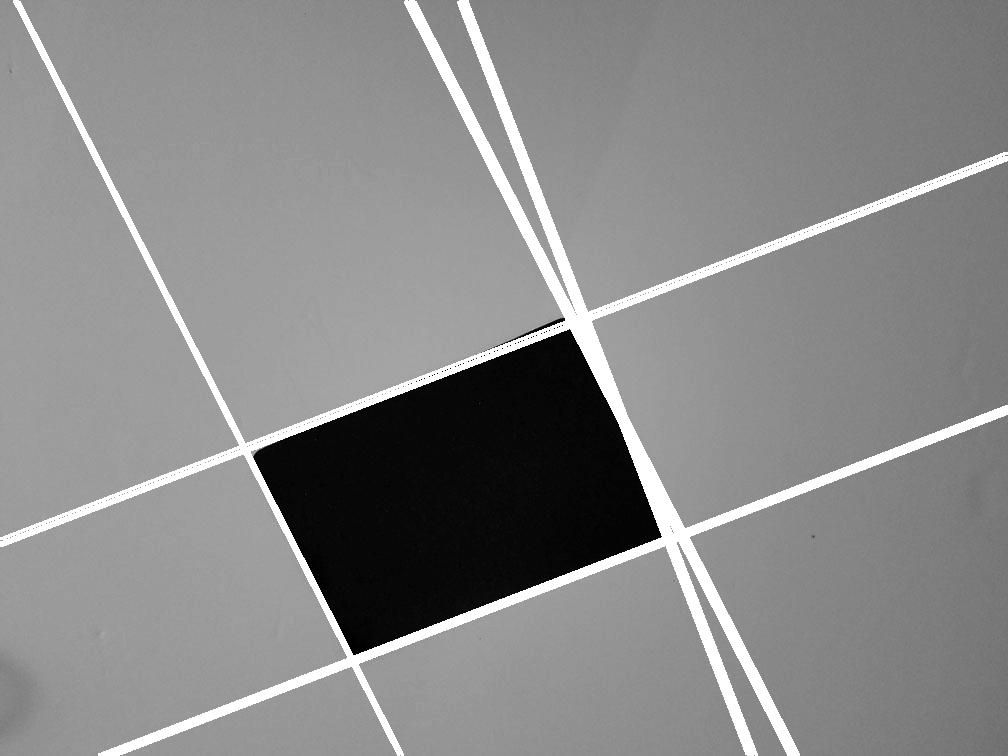
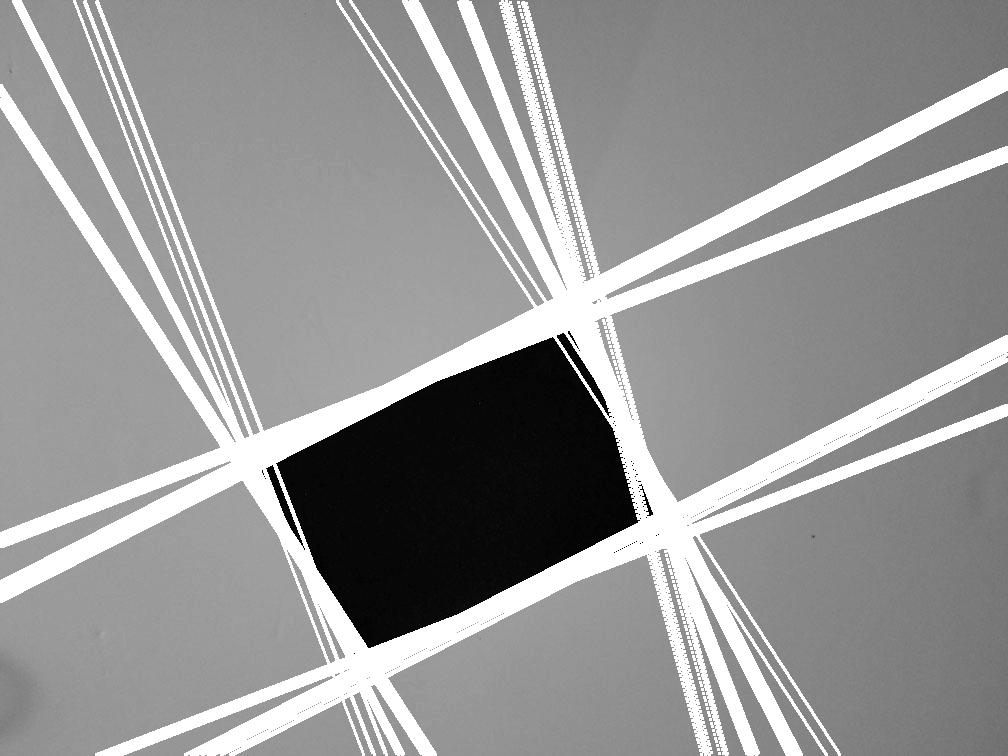
update

diff --git a/src/ImageProcessor.java b/src/ImageProcessor.java
@@ -420,7 +420,7 @@ public class ImageProcessor {
 
 
     private List<Line> extractLines() {
-        int k = 30;
+        int k = 100;
         int accumulatorThreshold = 0;
         int maxValue = 0;
 
@@ -435,14 +435,23 @@ public class ImageProcessor {
             }
         });
 
+        int lineCount = 0;
+
         for (int i = 0; i < houghTable.length; i++) {
             for (int j = 0; j < houghTable[0].length; j++) {
+
+
+
                 if (houghTable[i][j] > maxValue) {
                     maxValue = houghTable[i][j];
 
                 }
 
                 if (houghTable[i][j] > accumulatorThreshold) {
+
+                    lineCount += 1;
+
+
                     Line curLine = new Line (i, j, houghTable[i][j]);
                     if (minHeap.size() < k) {
                         minHeap.offer(curLine);
@@ -466,6 +475,8 @@ public class ImageProcessor {
             // System.out.print(" ****** " + l.pIndex + " " + l.thetaIndex);
         }
         // System.out.println();
+
+        System.out.println("The total line number is : " + lineCount);
 
         return lineList;
     }

diff --git a/src/ParallelogramDetector.java b/src/ParallelogramDetector.java
@@ -1,3 +1,4 @@
+import java.util.ArrayList;
 import java.util.List;
 
 /**
@@ -18,6 +19,7 @@ public class ParallelogramDetector {
 
     private List<Line> lineDistinction() {
 
+        return new ArrayList<>();
     }
 }
 
